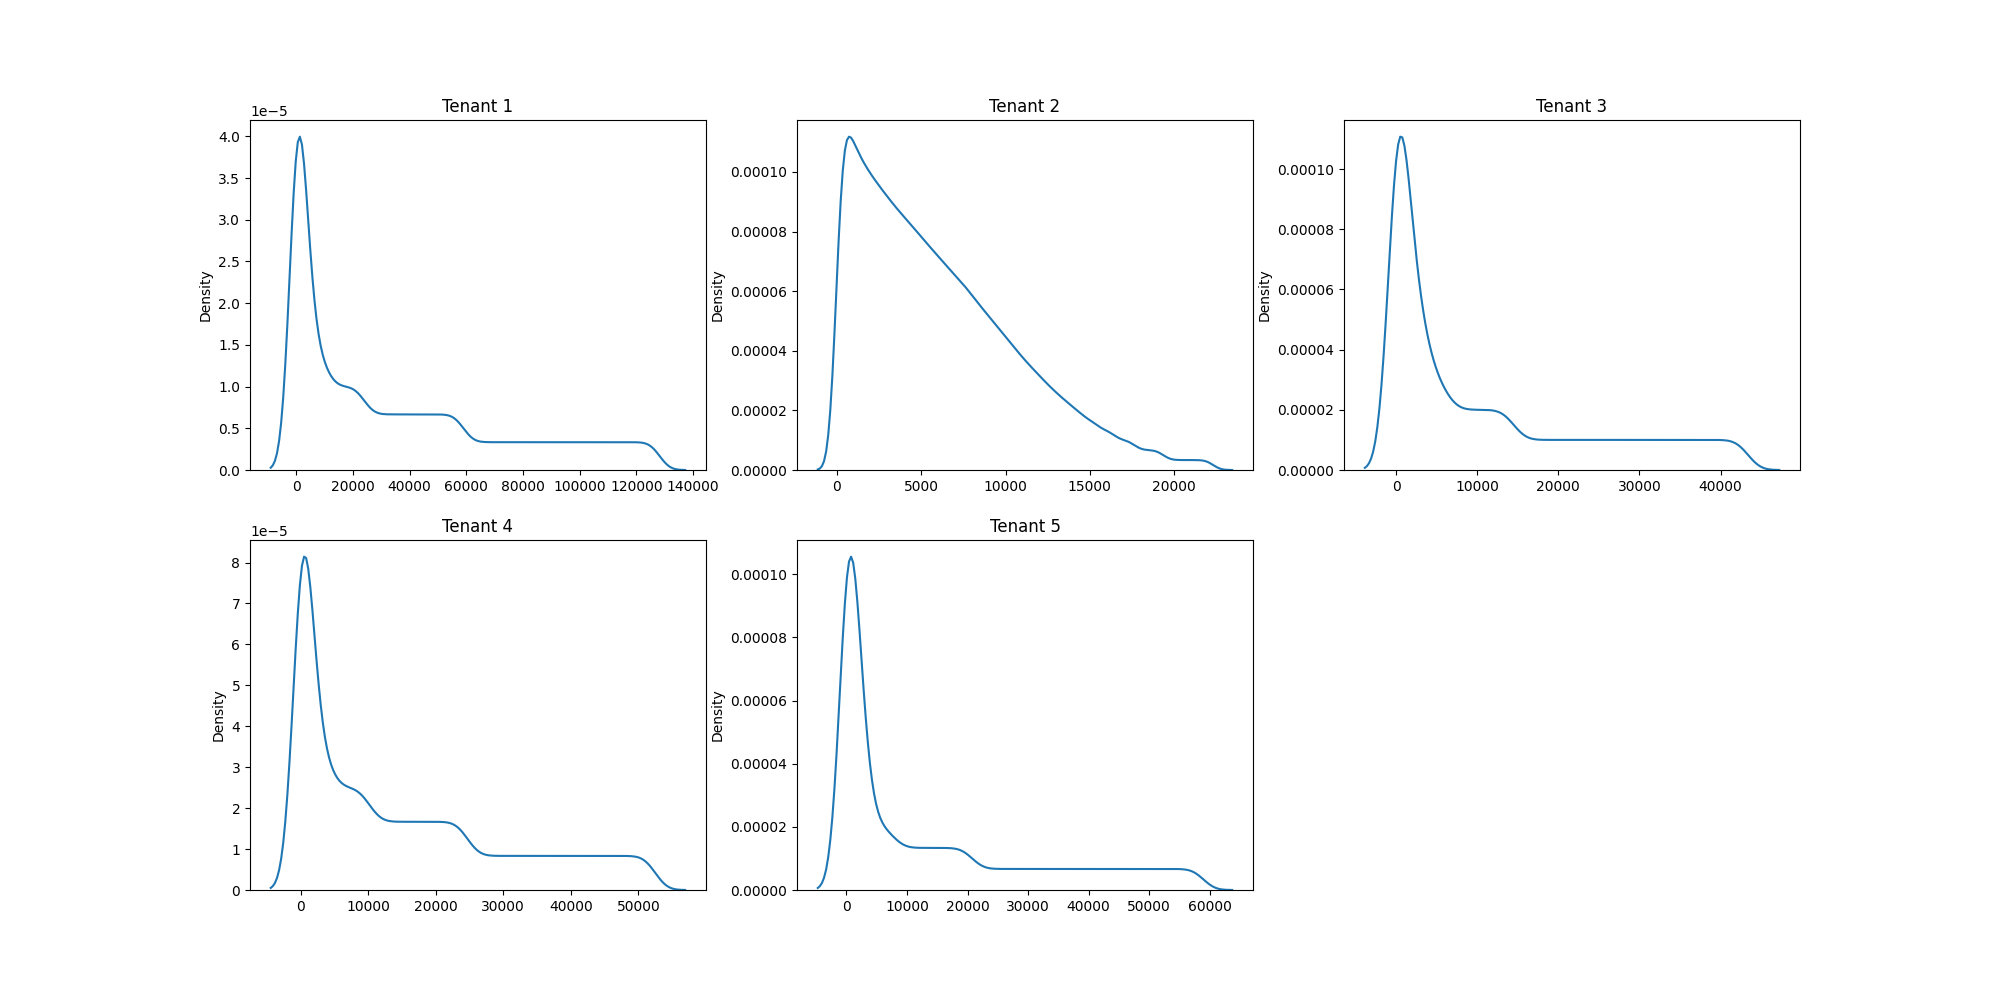
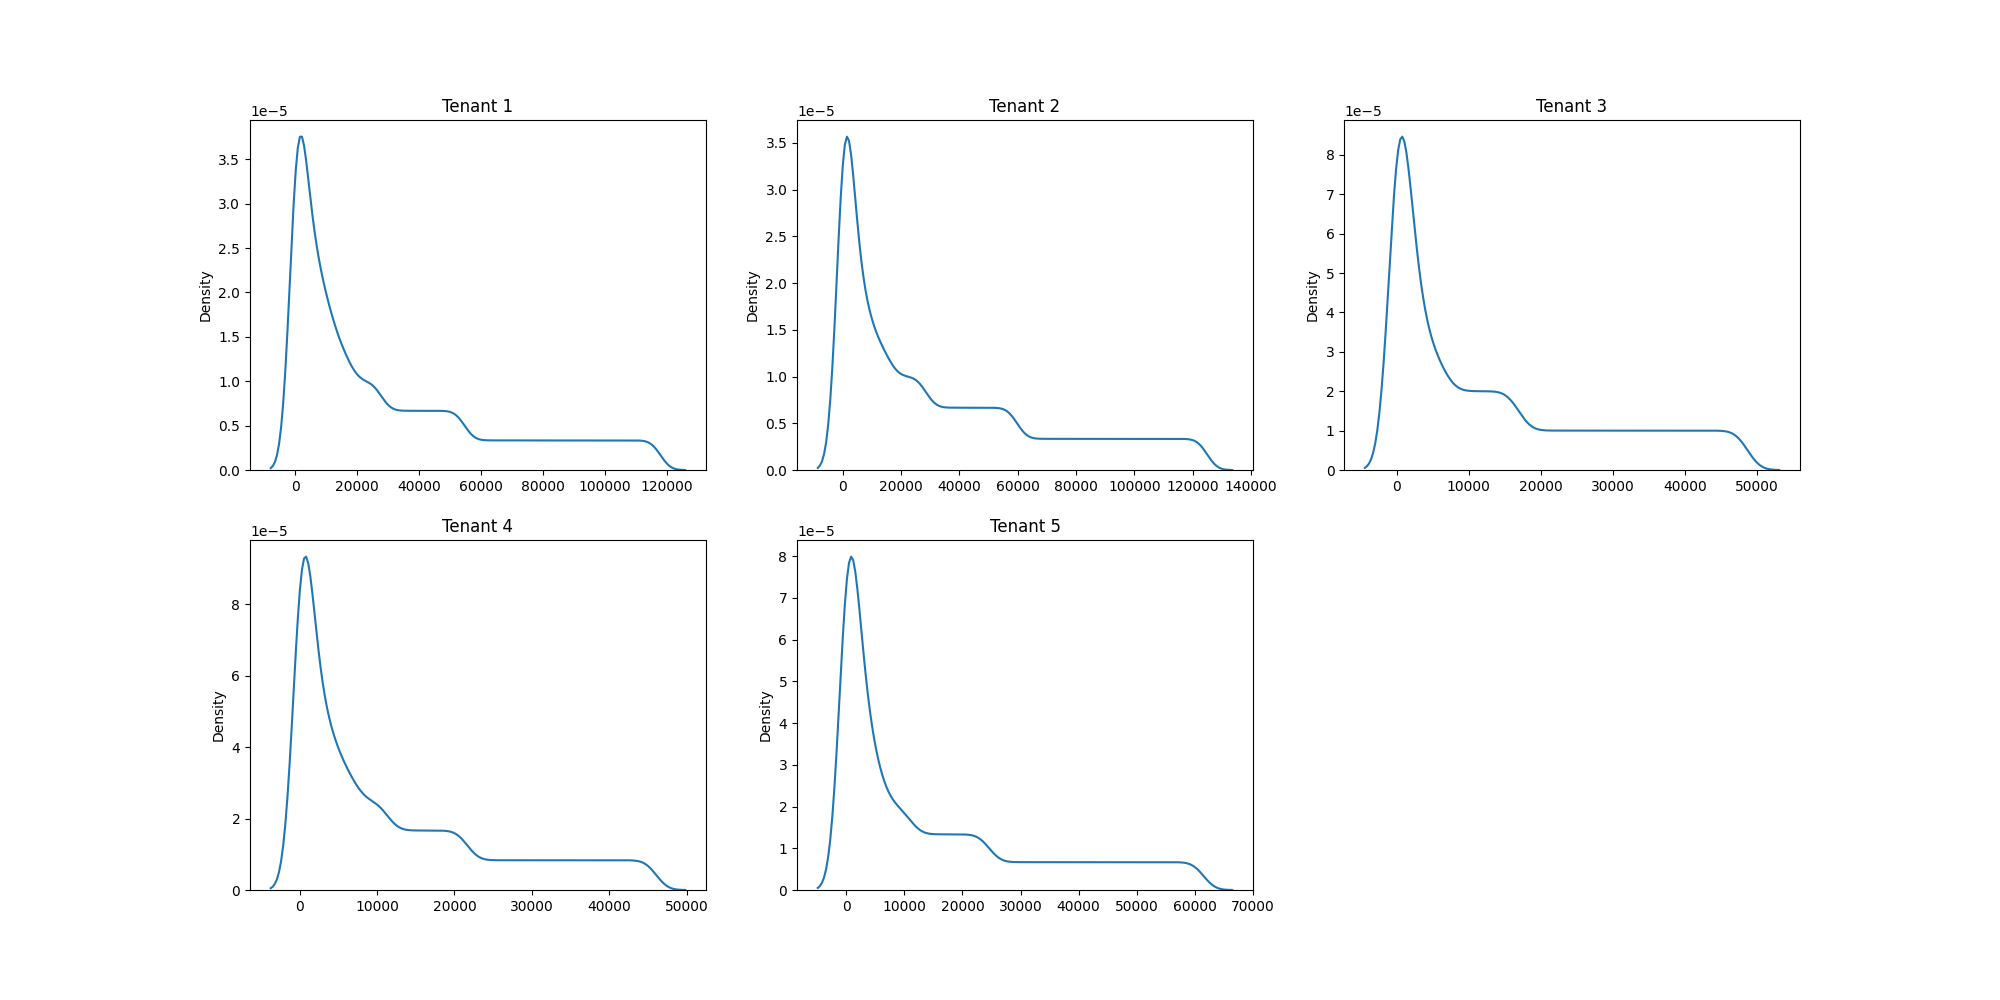
feat/modify-test-11

diff --git a/test_cases/test_case_11/description.py b/test_cases/test_case_11/description.py
@@ -9,17 +9,29 @@ tenants = [
         'minimum_buffer_size': 8000,
         'base_buffer_size': 17500,
         'maximum_buffer_size': 45000,
-        'page_accesses_dist': {
+        'page_accesses_dist': [
+          {
             'type': 'zipfian',
             'parameter': 1.01,
-            'length': 300000,
-        },
-        'pages_should_be_renumbered': False,
-        'page_accesses_interval_dist': {
+            'length': 200000,
+            'interval_type': 'uniform',
+            'interval_max_value': 1,
+          },
+          {
             'type': 'uniform',
-            'length': 300000,
-            'max_value': 1,
-        },
+            'length': 20000,
+            'interval_type': 'uniform',
+            'interval_max_value': 1,
+          },
+          {
+            'type': 'normal',
+            'variance': 8000,
+            'length': 80000,
+            'interval_type': 'uniform',
+            'interval_max_value': 1,
+          },
+        ],
+        'pages_should_be_renumbered': True,
     },
     {
         'tenant_id': 2,
@@ -28,17 +40,36 @@ tenants = [
         'minimum_buffer_size': 6750,
         'base_buffer_size': 15000,
         'maximum_buffer_size': 37500,
-        'page_accesses_dist': {
+        'page_accesses_dist': [
+          {
             'type': 'normal',
             'variance': 8000,
-            'length': 300000,
-        },
-        'pages_should_be_renumbered': False,
-        'page_accesses_interval_dist': {
+            'length': 40000,
+            'interval_type': 'uniform',
+            'interval_max_value': 1,
+          },
+          {
+            'type': 'zipfian',
+            'parameter': 1.01,
+            'length': 100000,
+            'interval_type': 'uniform',
+            'interval_max_value': 1,
+          },
+          {
             'type': 'uniform',
-            'length': 300000,
-            'max_value': 1,
-        },
+            'length': 40000,
+            'interval_type': 'uniform',
+            'interval_max_value': 1,
+          },
+          {
+            'type': 'pareto',
+            'parameter': 0.04,
+            'length': 120000,
+            'interval_type': 'uniform',
+            'interval_max_value': 1,
+          },
+        ],
+        'pages_should_be_renumbered': True,
     },
     {
         'tenant_id': 3,
@@ -47,17 +78,22 @@ tenants = [
         'minimum_buffer_size': 2000,
         'base_buffer_size': 5000,
         'maximum_buffer_size': 12500,
-        'page_accesses_dist': {
+        'page_accesses_dist': [
+          {
+            'type': 'uniform',
+            'length': 20000,
+            'interval_type': 'uniform',
+            'interval_max_value': 1,
+          },
+          {
             'type': 'pareto',
             'parameter': 0.04,
-            'length': 100000,
-        },
-        'pages_should_be_renumbered': False,
-        'page_accesses_interval_dist': {
-            'type': 'uniform',
-            'length': 100000,
-            'max_value': 1,
-        },
+            'length': 80000,
+            'interval_type': 'uniform',
+            'interval_max_value': 1,
+          },
+        ],
+        'pages_should_be_renumbered': True,
     },
     {
         'tenant_id': 4,
@@ -66,17 +102,30 @@ tenants = [
         'minimum_buffer_size': 2500,
         'base_buffer_size': 6500,
         'maximum_buffer_size': 16000,
-        'page_accesses_dist': {
+        'page_accesses_dist': [
+          {
+            'type': 'normal',
+            'variance': 4500,
+            'length': 30000,
+            'interval_type': 'uniform',
+            'interval_max_value': 1,
+          },
+          {
             'type': 'zipfian',
             'parameter': 1.005,
-            'length': 120000,
-        },
-        'pages_should_be_renumbered': False,
-        'page_accesses_interval_dist': {
-            'type': 'uniform',
-            'length': 120000,
-            'max_value': 1,
-        },
+            'length': 40000,
+            'interval_type': 'uniform',
+            'interval_max_value': 1,
+          },
+          {
+            'type': 'pareto',
+            'parameter': 0.04,
+            'length': 50000,
+            'interval_type': 'uniform',
+            'interval_max_value': 1,
+          }
+        ],
+        'pages_should_be_renumbered': True,
     },
     {
         'tenant_id': 5,
@@ -85,17 +134,30 @@ tenants = [
         'minimum_buffer_size': 3000,
         'base_buffer_size': 8000,
         'maximum_buffer_size': 20000,
-        'page_accesses_dist': {
+        'page_accesses_dist': [
+          {
             'type': 'pareto',
             'parameter': 0.04,
-            'length': 150000,
-        },
-        'pages_should_be_renumbered': False,
-        'page_accesses_interval_dist': {
-            'type': 'uniform',
-            'length': 150000,
-            'max_value': 1,
-        },
+            'length': 70000,
+            'interval_type': 'uniform',
+            'interval_max_value': 1,
+          },
+          {
+            'type': 'normal',
+            'variance': 4500,
+            'length': 10000,
+            'interval_type': 'uniform',
+            'interval_max_value': 1,
+          },
+          {
+            'type': 'pareto',
+            'parameter': 0.04,
+            'length': 70000,
+            'interval_type': 'uniform',
+            'interval_max_value': 1,
+          },
+        ],
+        'pages_should_be_renumbered': True,
     }
 ]
 
